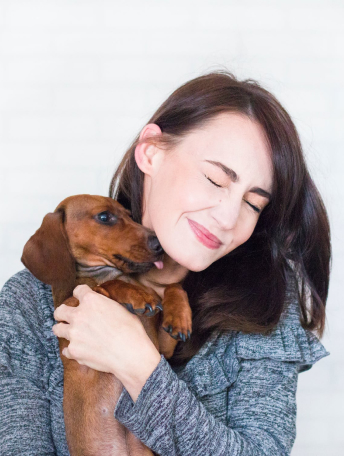
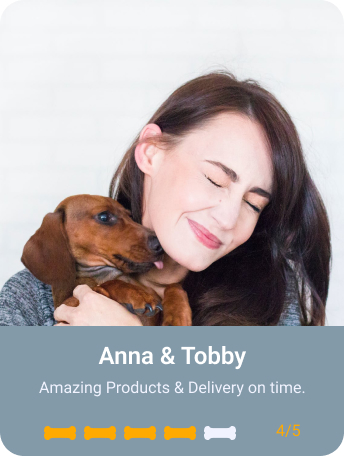
Add image to customer section

Changed region(s): [[0.0, 0.7061, 1.0, 1.0]]

diff --git a/index.html b/index.html
@@ -124,26 +124,34 @@
             <section class="customer-section section" id="customer-section">
               <div class="container">
                   <h2 class="customer-section-title section-title">Happy customer</h2>
+                  <div class="customer-section-container container">
                   <ul class="customer-list">
-                      <li class="customer-item">
+                      <li class="customer-item">  
                           <article class="customer-card">
-                              <h3 class="customer-title">Christin & Tom</h3>
-                              <p class="customer-text">Love the overall workout experience!</p>
-                          </article>
-                      </li>
-                      <li class="customer-item">
-                          <article class="customer-card">
-                              <h3 class="customer-title">Anna & Tobby</h3>
-                              <p class="customer-text">Amazing Products & Delivery on time.
-                              </p>
+                            <img class="relationship-section-image"
+                              src="./images/Christin & Tom.jpg"
+                              alt="Christin & Tom"
+                            />
                           </article>
                       </li>
                       <li class="customer-item">
                         <article class="customer-card">
-                              <h3 class="customer-title">Sindy & Kitch</h3>
-                              <p class="customer-text">Great job with the trainer!</p>
+                            <img class="relationship-section-image"
+                              src="./images/Anna & Tobby.jpg"
+                              alt="Anna & Tobby"
+                            />
+                        </article>
+                      </li>
+                      <li class="customer-item">
+                        <article class="customer-card">
+                            <img class="relationship-section-image"
+                              src="./images/Sindy & Kitch.jpg"
+                              alt="Sindy & Kitch"
+                            />
                         </article>
                      </li>
+                  </ul>
+                  </div>
               </div>
             </section>
 

diff --git a/css/styles.css b/css/styles.css
@@ -134,10 +134,6 @@ h2 {
     display: flex;
 }
 
-.info-relationship-section-content {
-    /*flex-basis: calc(100% / 2);*/
-}
-
 .info-relationship-section-title {
     /*font-size: 56px;*/
     font-weight: 400;
@@ -224,6 +220,14 @@ h2 {
     text-align: center;
 }
 
+.customer-section-container {
+    /*display: flex;*/
+        flex-direction: column;
+        justify-content: flex-end;
+        align-items: center;
+        height: 300px;
+}
+
 .customer-list{
     text-align: center;
     display: flex;
@@ -236,22 +240,19 @@ h2 {
     height: 456px;
 }
 
-.customer-title {
-    font-size: 24px;
-    font-weight: 600;
-    line-height: 1.5;
-
+.customer-card {
+    width: 344px;
+    height: 456px;
 }
 
-.customer-text{
-    font-size: 16px;
-    font-weight: 400;
-    line-height: 1.5;
+.visually-hidden {
+    overflow: hidden;
 }
 
 /*Contact section*/
 .contact-section-title {
     text-align: center;
+    margin-top: 130px;/*delete*/
 }
 
 .contact-section-text {
